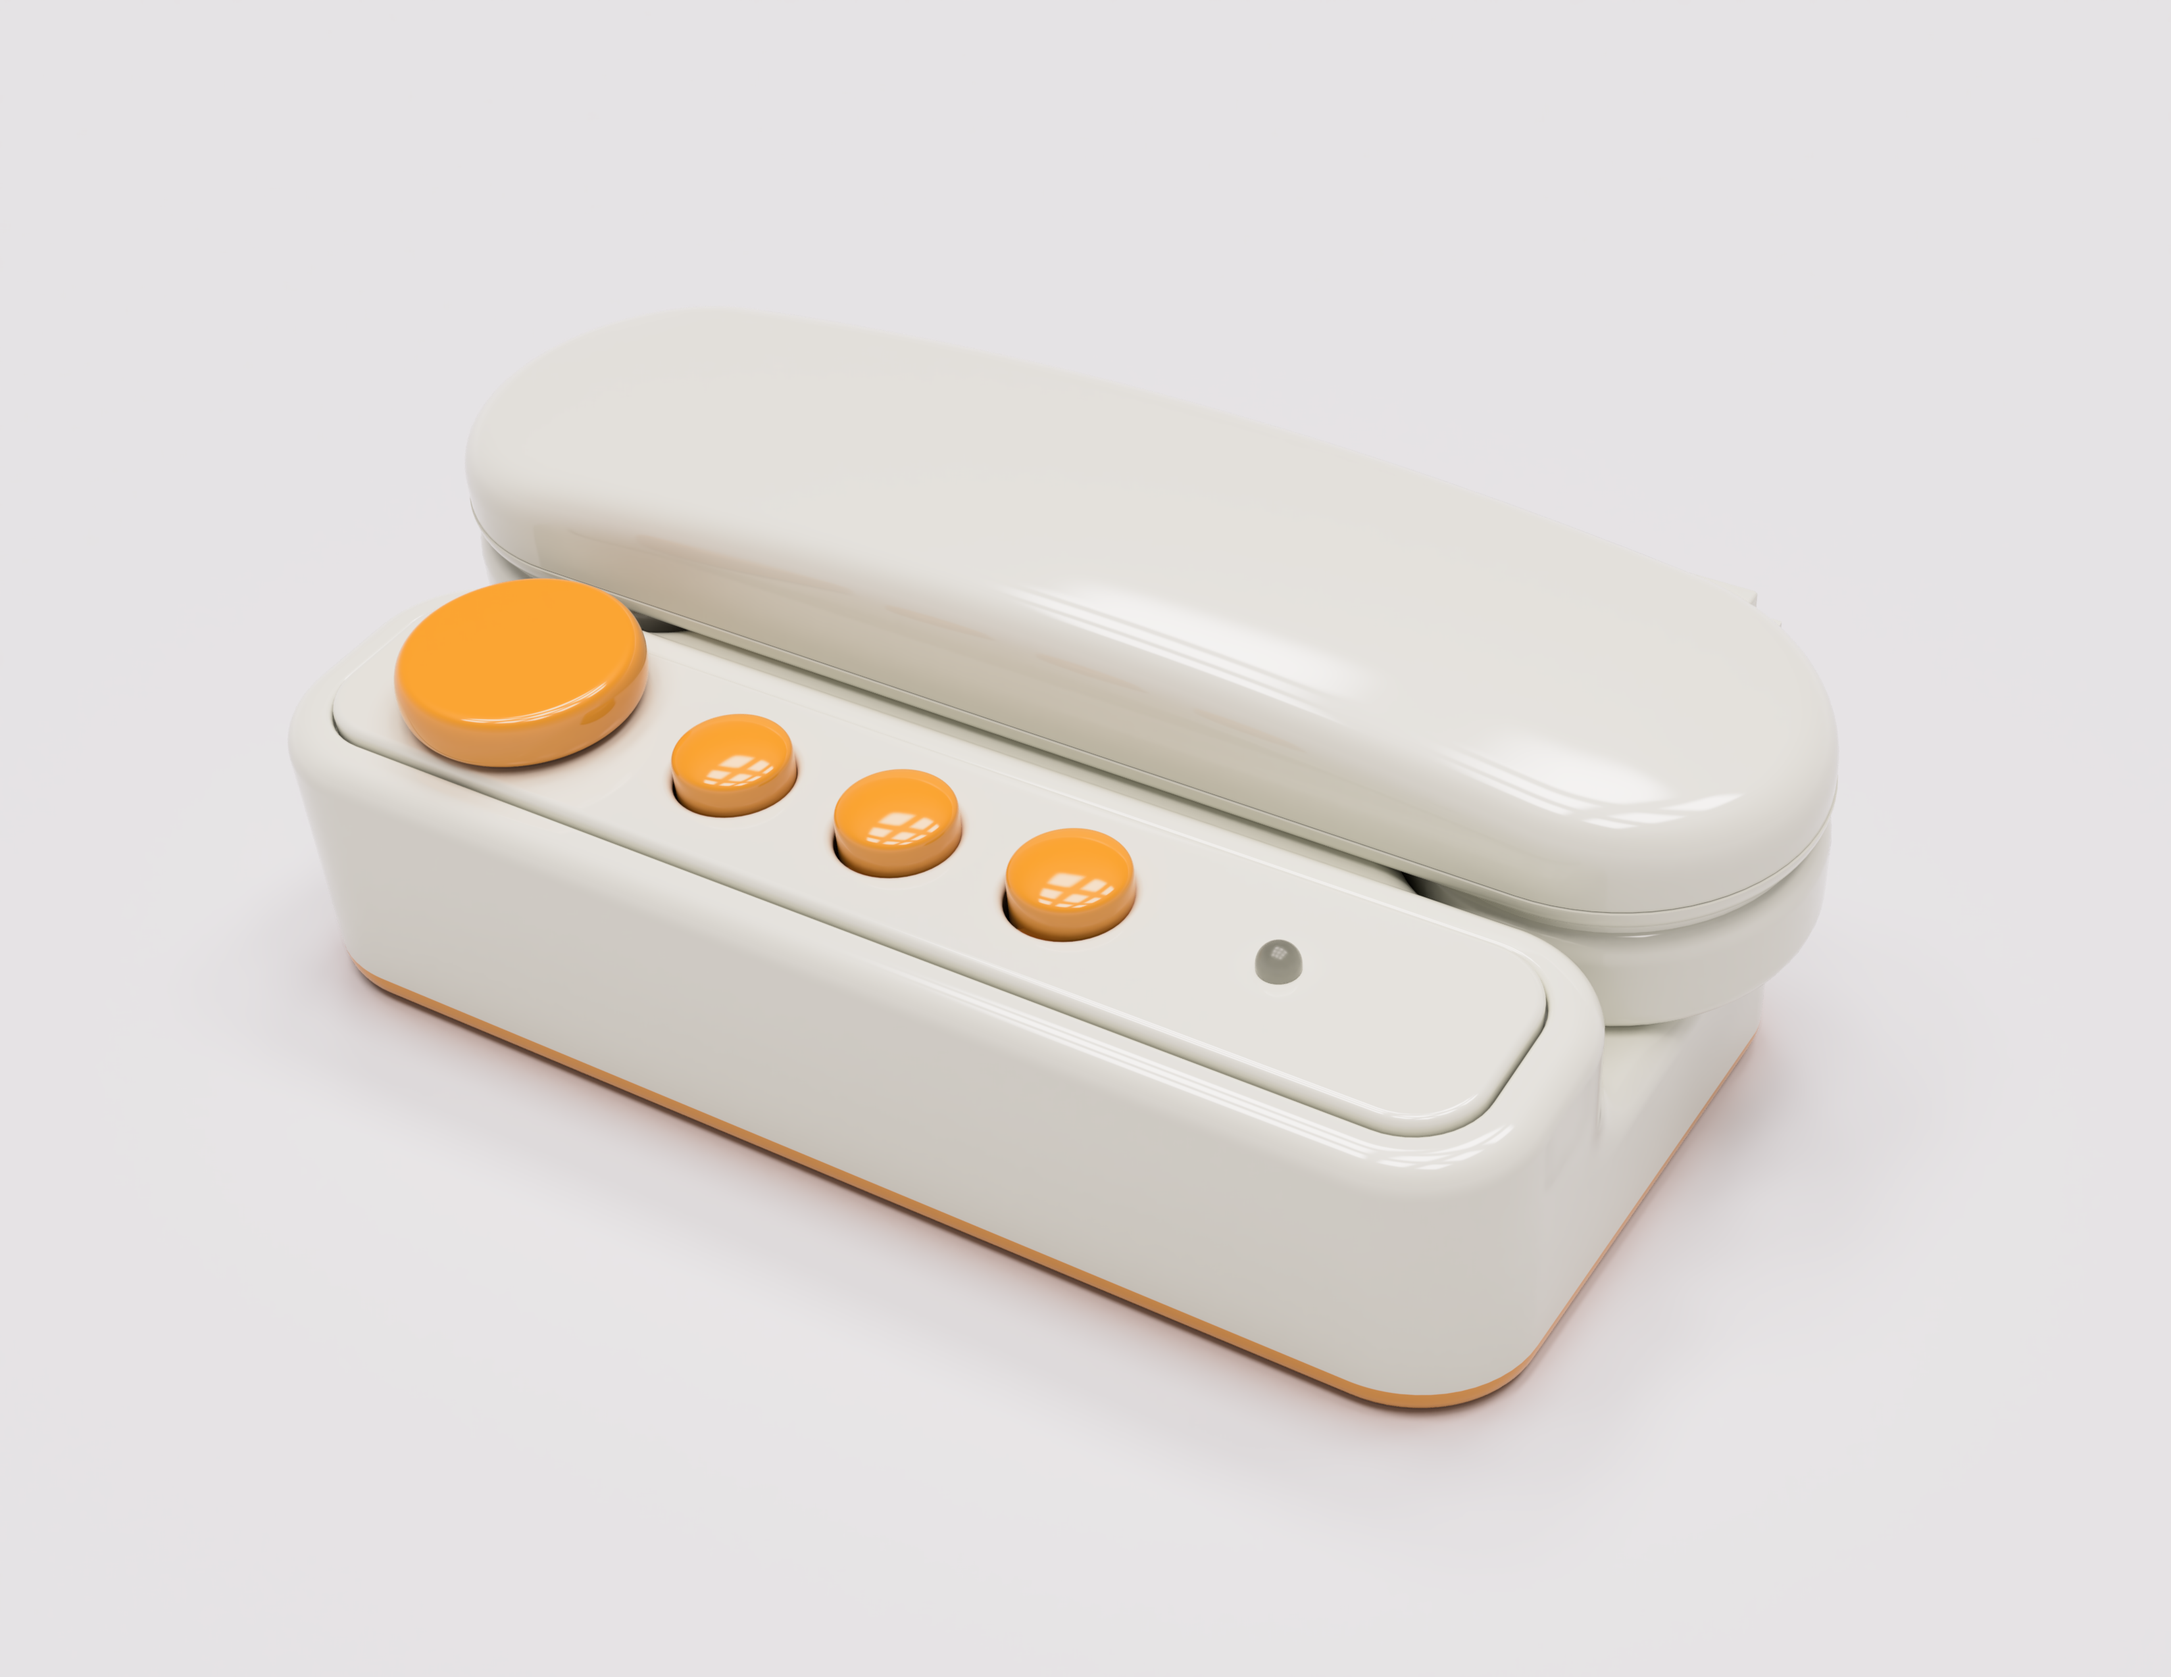
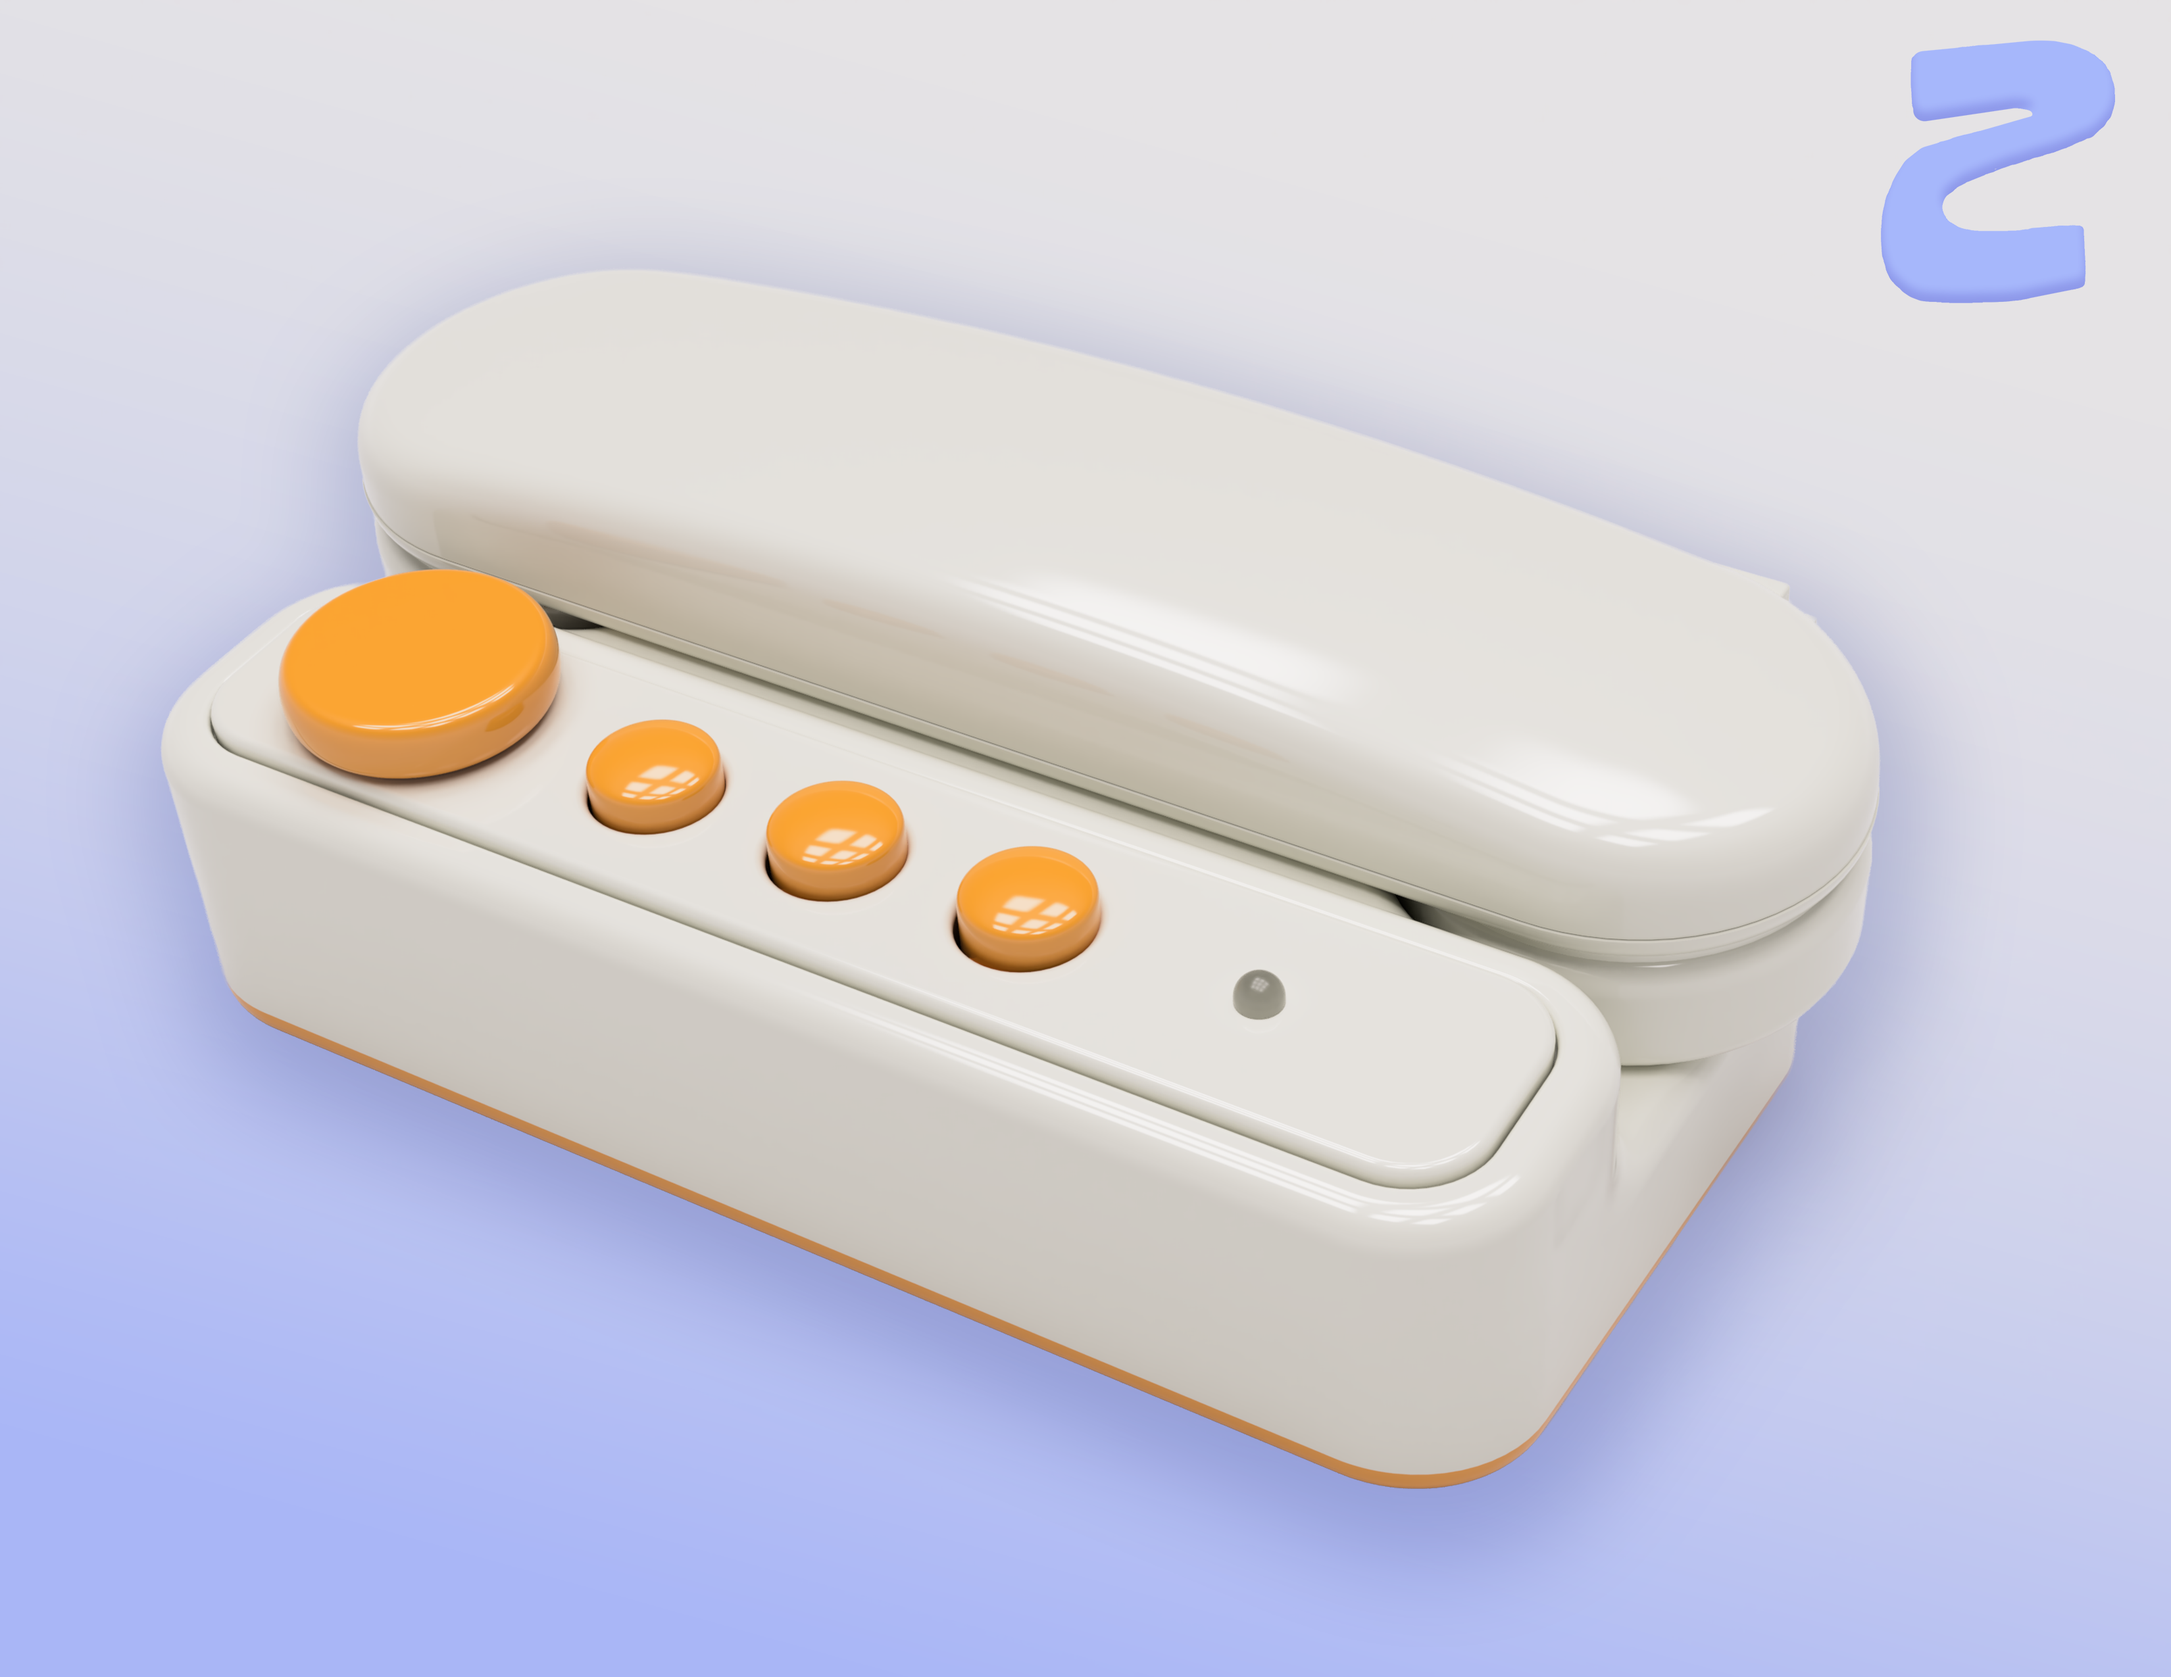
Update Ziggy website: replace Gemini image with C2 Ziggy, add visual features section, and enhance styles for better layout and design.

diff --git a/index.html b/index.html
@@ -56,7 +56,7 @@
                     </div>
                 </div>
                 <div class="hero-image">
-                    <img src="Gemini_Generated_Image_okbmsbokbmsbokbm.png" alt="Ziggy Communication Device" class="product-image">
+                    <img src="C2-Ziggy-transparent-w-logo.png" alt="Ziggy Communication Device" class="product-image">
                 </div>
             </div>
         </div>
@@ -102,6 +102,31 @@
         </div>
     </section>
 
+    <!-- Visual Features Showcase -->
+    <section class="visual-features">
+        <div class="container">
+            <h2 class="section-title">See Ziggy in Every Situation! 📸</h2>
+            <p class="section-subtitle">From playtime to bedtime, Ziggy adapts to your family's needs</p>
+            <div class="visual-features-grid">
+                <div class="visual-feature-item">
+                    <img src="Gemini_Generated_Image_2zwcoy2zwcoy2zwc.png" alt="Ziggy playtime" class="visual-feature-img">
+                    <h3>Playtime Fun</h3>
+                    <p>Perfect for backyard adventures and indoor play!</p>
+                </div>
+                <div class="visual-feature-item">
+                    <img src="Gemini_Generated_Image_p0hzp3p0hzp3p0hz.png" alt="Ziggy family time" class="visual-feature-img">
+                    <h3>Family Moments</h3>
+                    <p>Connecting generations with love and laughter!</p>
+                </div>
+                <div class="visual-feature-item">
+                    <img src="Gemini_Generated_Image_y8l0nvy8l0nvy8l0.png" alt="Ziggy design" class="visual-feature-img">
+                    <h3>Smart Design</h3>
+                    <p>Built for little hands and big imaginations!</p>
+                </div>
+            </div>
+        </div>
+    </section>
+
     <!-- How It Works Section -->
     <section class="how-it-works">
         <div class="container">
@@ -109,7 +134,7 @@
             <div class="steps-container">
                 <div class="step">
                     <div class="step-image">
-                        <img src="Gemini_Generated_Image_40xt8i40xt8i40xt.png" alt="Boy in a pillow fort talking on a Ziggy phone" class="step-img">
+                        <img src="Gemini_Generated_Image_okbmsbokbmsbokbm (2).png" alt="Boy in a pillow fort talking on a Ziggy phone" class="step-img">
                     </div>
                     <div class="step-content">
                         <span class="step-number">STEP 1</span>
@@ -120,7 +145,7 @@
 
                 <div class="step reverse">
                     <div class="step-image">
-                        <img src="Gemini_Generated_Image_bf7tqrbf7tqrbf7t.png" alt="Close up of a child's finger pushing the main button on the Ziggy phone" class="step-img">
+                        <img src="Gemini_Generated_Image_okbmsbokbmsbokbm (1).png" alt="Close up of a child's finger pushing the main button on the Ziggy phone" class="step-img">
                     </div>
                     <div class="step-content">
                         <span class="step-number">STEP 2</span>
@@ -131,7 +156,7 @@
 
                 <div class="step">
                     <div class="step-image">
-                        <img src="Gemini_Generated_Image_f5r3pdf5r3pdf5r3.png" alt="Parent holding a smartphone showing the Ziggy control app" class="step-img">
+                        <img src="Gemini_Generated_Image_pgzs66pgzs66pgzs.png" alt="Parent holding a smartphone showing the Ziggy control app" class="step-img">
                     </div>
                     <div class="step-content">
                         <span class="step-number">STEP 3</span>
@@ -150,7 +175,7 @@
             <div class="product-grid">
                 <div class="product-card">
                     <div class="product-image-container">
-                        <img src="Gemini_Generated_Image_okbmsbokbmsbokbm (2).png" alt="Ziggy Communication Device" class="product-card-image">
+                        <img src="Gemini_Generated_Image_j3km3cj3km3cj3km.png" alt="Ziggy Communication Device" class="product-card-image">
                     </div>
                     <div class="product-info">
                         <h3>Ziggy the Magical Talker</h3>
@@ -244,25 +269,25 @@
             <h2 class="section-title">A Happier, Chattier Childhood.</h2>
             <div class="gallery-grid">
                 <div class="gallery-item">
-                    <img src="Gemini_Generated_Image_j3km3cj3km3cj3km.png" alt="Child's finger pushing Ziggy button" class="gallery-img">
+                    <img src="Gemini_Generated_Image_40xt8i40xt8i40xt.png" alt="Child's finger pushing Ziggy button" class="gallery-img">
                     <div class="gallery-overlay">
                         <p class="gallery-caption">So easy, they can do it themselves.</p>
                     </div>
                 </div>
                 <div class="gallery-item">
-                    <img src="Gemini_Generated_Image_okbmsbokbmsbokbm (1).png" alt="Boy talking to his abuela on a video call with his Ziggy phone" class="gallery-img">
+                    <img src="Gemini_Generated_Image_bf7tqrbf7tqrbf7t.png" alt="Boy talking to his abuela on a video call with his Ziggy phone" class="gallery-img">
                     <div class="gallery-overlay">
                         <p class="gallery-caption">Speaking every language of love.</p>
                     </div>
                 </div>
                 <div class="gallery-item">
-                    <img src="Gemini_Generated_Image_pgzs66pgzs66pgzs.png" alt="Ziggy phone surrounded by classic toys" class="gallery-img">
+                    <img src="Gemini_Generated_Image_f5r3pdf5r3pdf5r3.png" alt="Ziggy phone surrounded by classic toys" class="gallery-img">
                     <div class="gallery-overlay">
                         <p class="gallery-caption">The best toy in the playroom.</p>
                     </div>
                 </div>
                 <div class="gallery-item">
-                    <img src="Gemini_Generated_Image_s5p5jas5p5jas5p5.png" alt="Split screen of a dad at work and daughter in a treehouse talking on Ziggy phones" class="gallery-img">
+                    <img src="Gemini_Generated_Image_pgzs66pgzs66pgzs.png" alt="Split screen of a dad at work and daughter in a treehouse talking on Ziggy phones" class="gallery-img">
                     <div class="gallery-overlay">
                         <p class="gallery-caption">Your private line for the important stuff.</p>
                     </div>
@@ -301,21 +326,21 @@
             <p class="section-subtitle">See how families are using Ziggy to create magical moments every day</p>
             <div class="showcase-grid">
                 <div class="showcase-item">
-                    <img src="Gemini_Generated_Image_okbmsbokbmsbokbm (2).png" alt="Ziggy in use" class="showcase-img">
+                    <img src="Gemini_Generated_Image_s5p5jas5p5jas5p5.png" alt="Ziggy in use" class="showcase-img">
                     <div class="showcase-caption">
                         <h3>Treehouse Adventures</h3>
                         <p>Perfect for outdoor play and exploration!</p>
                     </div>
                 </div>
                 <div class="showcase-item">
-                    <img src="Gemini_Generated_Image_okbmsbokbmsbokbm (1).png" alt="Ziggy with family" class="showcase-img">
+                    <img src="Gemini_Generated_Image_40xt8i40xt8i40xt.png" alt="Ziggy with family" class="showcase-img">
                     <div class="showcase-caption">
                         <h3>Family Connections</h3>
                         <p>Bringing families closer together!</p>
                     </div>
                 </div>
                 <div class="showcase-item">
-                    <img src="Gemini_Generated_Image_okbmsbokbmsbokbm.png" alt="Ziggy design" class="showcase-img">
+                    <img src="Gemini_Generated_Image_bf7tqrbf7tqrbf7t.png" alt="Ziggy design" class="showcase-img">
                     <div class="showcase-caption">
                         <h3>Kid-Friendly Design</h3>
                         <p>Built for little hands and big imaginations!</p>

diff --git a/styles.css b/styles.css
@@ -76,7 +76,6 @@ body {
     align-items: center;
     gap: 20px;
     margin-left: auto;
-    margin-right: 20px;
 }
 
 .login-btn {
@@ -1109,6 +1108,7 @@ body {
     padding: 0;
     z-index: 1001;
     margin-left: auto;
+    margin-right: 0;
 }
 
 .hamburger {
@@ -1131,6 +1131,21 @@ body {
 
 .menu-toggle.active .hamburger:nth-child(3) {
     transform: rotate(-45deg);
+}
+
+/* Feature Icons */
+.feature-icon {
+    width: 60px;
+    height: 60px;
+    border-radius: 50%;
+    display: flex;
+    align-items: center;
+    justify-content: center;
+    font-size: 1.5rem;
+    margin-bottom: 20px;
+    background: linear-gradient(135deg, #6b46c1 0%, #8b5cf6 100%);
+    color: #ffffff;
+    box-shadow: 0 4px 15px rgba(107, 70, 193, 0.3);
 }
 
 /* Hero Buttons */
@@ -1343,6 +1358,54 @@ body {
 .walkie-best, .smartphone-best {
     color: #4a5568;
     font-weight: 600;
+}
+
+/* Visual Features */
+.visual-features {
+    padding: 80px 0;
+    background: linear-gradient(135deg, #f3e8ff 0%, #e0e7ff 100%);
+}
+
+.visual-features-grid {
+    display: grid;
+    grid-template-columns: repeat(auto-fit, minmax(300px, 1fr));
+    gap: 30px;
+    margin-top: 40px;
+}
+
+.visual-feature-item {
+    text-align: center;
+    background-color: #ffffff;
+    border-radius: 20px;
+    padding: 30px;
+    box-shadow: 0 10px 30px rgba(107, 70, 193, 0.1);
+    transition: transform 0.3s ease;
+}
+
+.visual-feature-item:hover {
+    transform: translateY(-5px);
+}
+
+.visual-feature-img {
+    width: 100%;
+    max-width: 250px;
+    height: auto;
+    border-radius: 15px;
+    margin-bottom: 20px;
+    box-shadow: 0 10px 25px rgba(107, 70, 193, 0.2);
+}
+
+.visual-feature-item h3 {
+    font-size: 1.3rem;
+    font-weight: 700;
+    color: #6b46c1;
+    margin-bottom: 10px;
+}
+
+.visual-feature-item p {
+    color: #4a5568;
+    font-size: 1rem;
+    line-height: 1.5;
 }
 
 /* Image Showcase */
@@ -1601,6 +1664,10 @@ body {
     }
     
     .showcase-grid {
+        grid-template-columns: 1fr;
+    }
+    
+    .visual-features-grid {
         grid-template-columns: 1fr;
     }
 }
